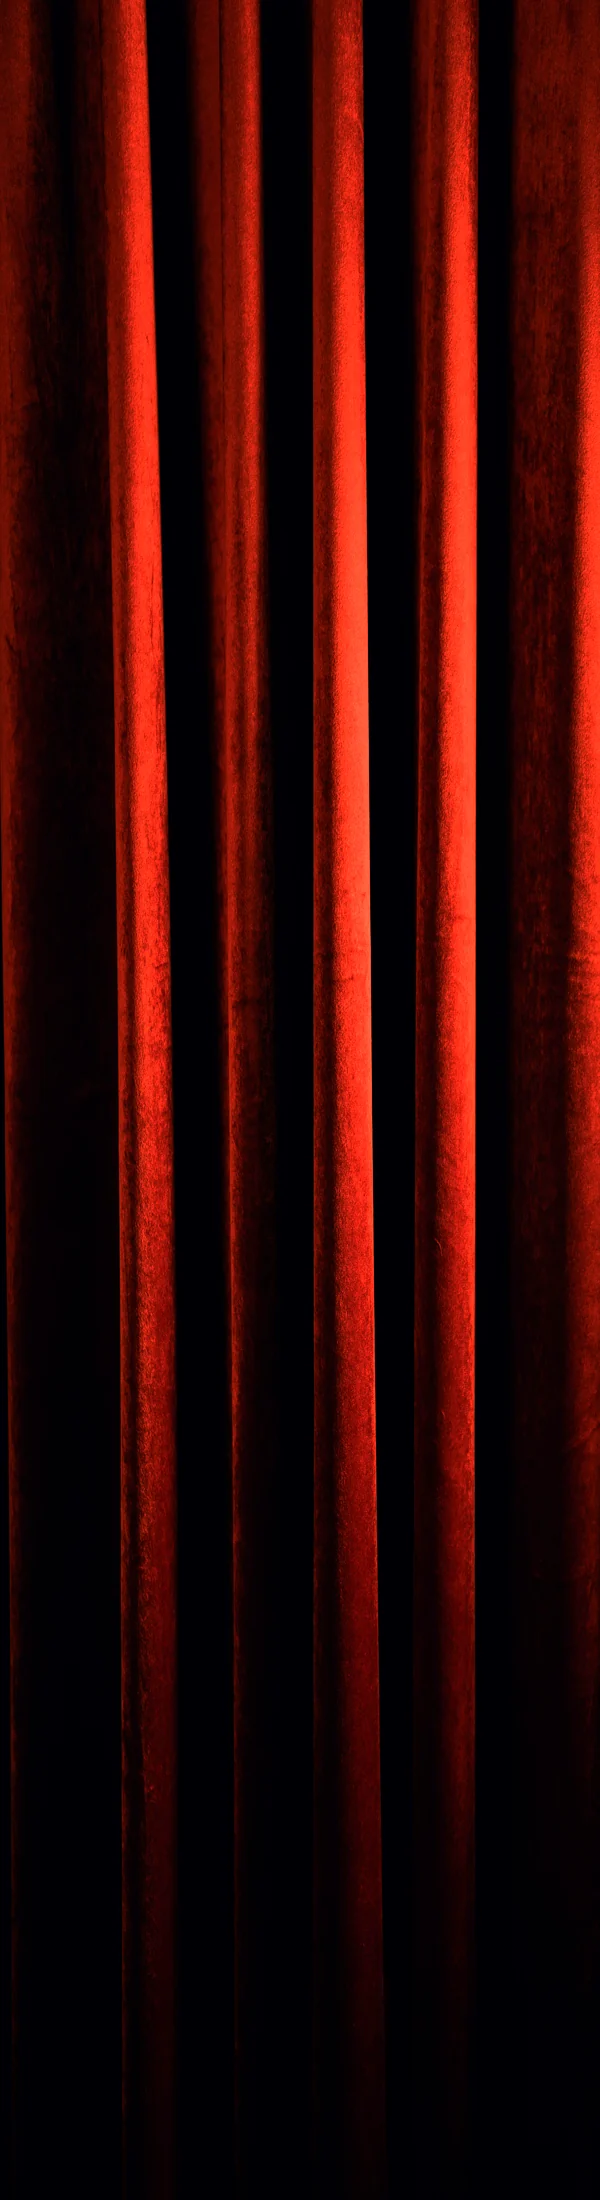
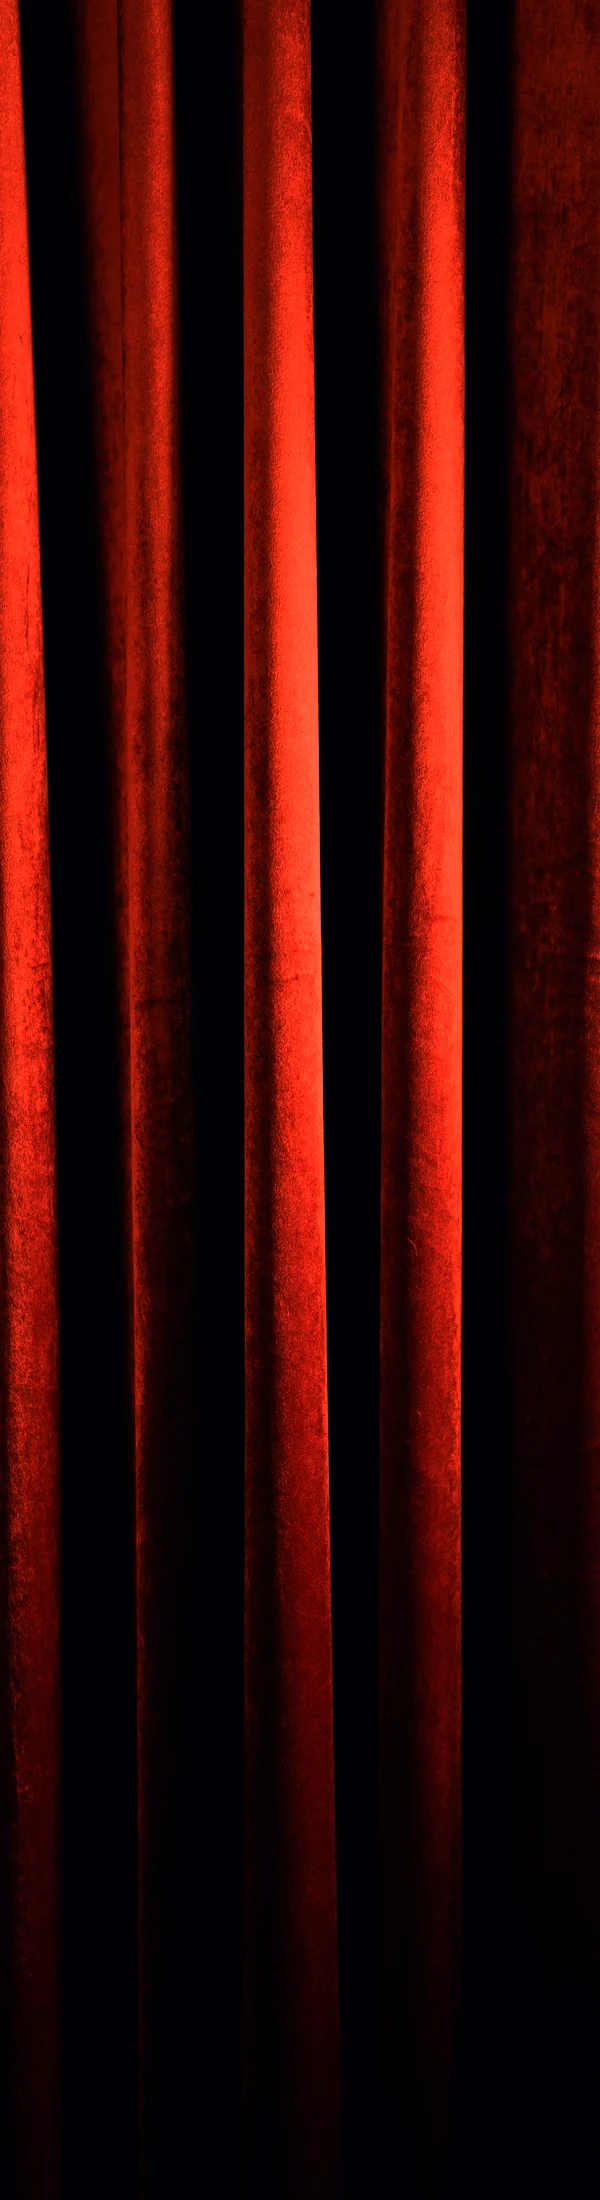
style: curtain zoom between the two previous versions

diff --git a/scripts/make_curtain.py b/scripts/make_curtain.py
@@ -17,13 +17,13 @@ import sys
 from PIL import Image, ImageEnhance
 
 src_path, out_path = sys.argv[1:3]
-x0, x1, colour, brightness = (float(v) for v in (sys.argv[3:7] or (0.04, 0.86, 1.25, 1.12)))
-out_width = int(sys.argv[7]) if len(sys.argv) > 7 else 600  # slim panel: about three folds show on screen
+x0, x1, colour, brightness = (float(v) for v in (sys.argv[3:7] or (0.22, 0.83, 1.25, 1.12)))
+out_width = int(sys.argv[7]) if len(sys.argv) > 7 else 600  # slim panel: a little over two folds show on screen
 OUT_HEIGHT = 2200
 
 photo = Image.open(src_path).convert("RGB")
 w, h = photo.size
-# most of the photo width (about five folds), squeezed into a slim panel so the curtain looks zoomed out
+# about four folds of the photo, squeezed into a slim panel so the curtain looks slightly zoomed out
 panel = photo.crop((int(w * x0), 0, int(w * x1), h))
 panel = panel.resize((out_width or round(panel.width * OUT_HEIGHT / panel.height), OUT_HEIGHT), Image.LANCZOS)
 panel = ImageEnhance.Color(panel).enhance(colour)
